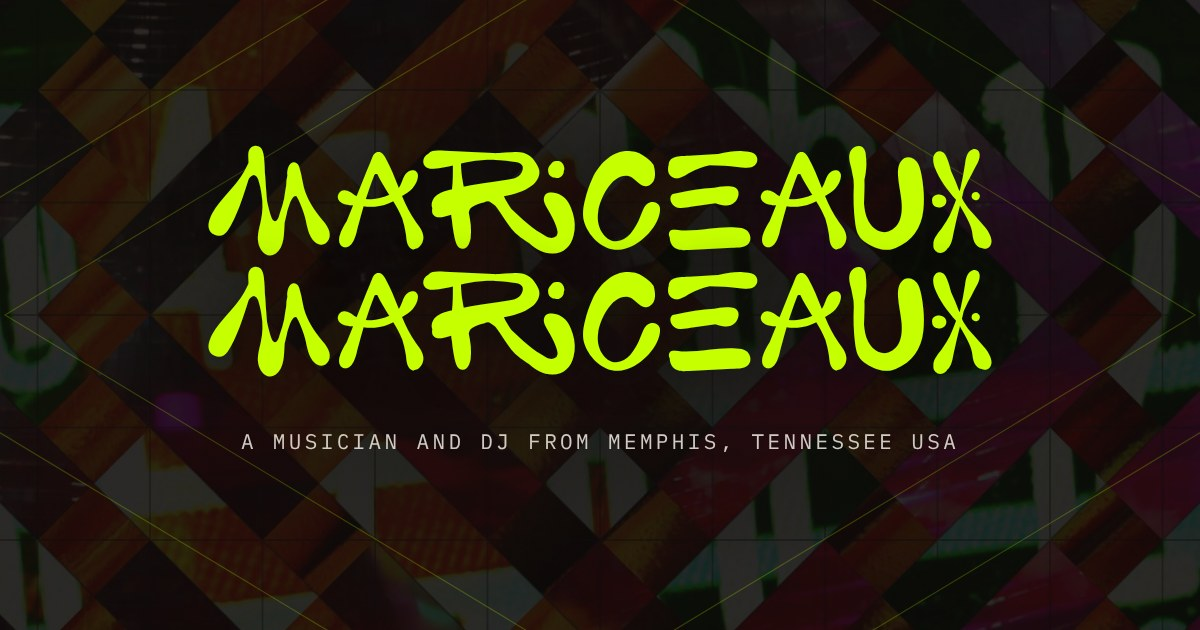
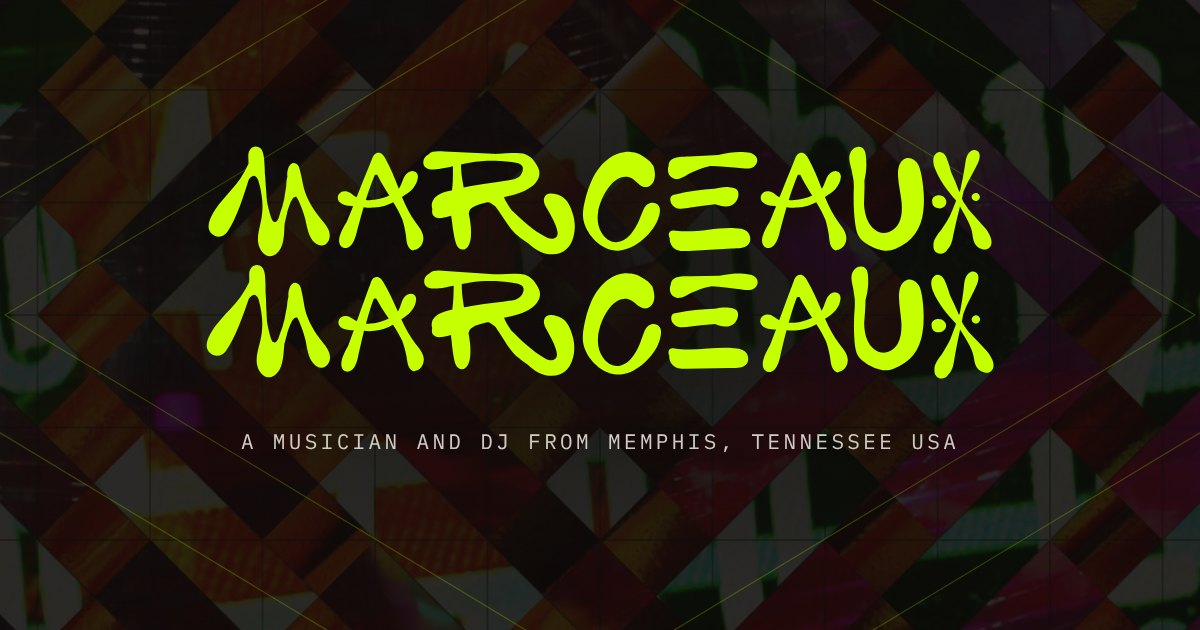
SVG wordmark: drop the dot on the R, vary the second line slightly
Claude-Session: https://claude.ai/code/session_01Y6u3eC9YJ4hNr6J4tV6s9c

diff --git a/public/index.html b/public/index.html
@@ -39,7 +39,7 @@
 	<link rel="preconnect" href="https://fonts.googleapis.com">
 	<link rel="preconnect" href="https://fonts.gstatic.com" crossorigin>
 	<link href="https://fonts.googleapis.com/css2?family=Inter:wght@500;800&family=IBM+Plex+Mono:wght@400;500&display=swap" rel="stylesheet">
-	<link rel="stylesheet" href="assets/style.css?v=c6eab2ed7e">
+	<link rel="stylesheet" href="assets/style.css?v=563aedf874">
 	<style>
 		/* Preloader: inline so it covers the page before anything else paints */
 		#preloader { position: fixed; inset: 0; z-index: 200; background: #110f0d; }
@@ -71,7 +71,7 @@
 	</div>
 
 	<main class="mwg_effect107" id="top">
-		<h1 class="lockup" aria-label="MarceauxMarceaux"><span class="lockup__name" aria-hidden="true">Marceaux<br>Marceaux</span><br><span>A musician and DJ from Memphis, Tennessee USA</span></h1>
+		<h1 class="lockup" aria-label="MarceauxMarceaux"><svg class="lockup__name" viewBox="0 0 5992 1840" aria-hidden="true" focusable="false"><path fill="currentColor" d="M272 184C229 247 174 300 126 360C80 414 -32 566 77 618C88 623 99 625 110 625C136 625 159 611 175 587C242 490 299 310 334 196C342 183 358 164 374 164C390 164 410 194 410 209C420 242 428 276 432 310C444 377 441 444 427 511C416 565 398 618 407 674C415 723 450 774 496 774C510 774 525 769 540 759C607 712 602 605 607 526C613 501 619 475 625 450C632 427 659 310 697 325C702 334 707 343 712 352C732 395 748 438 761 483C778 547 784 627 838 674C852 686 869 693 885 693C907 693 928 681 941 654C967 597 926 543 891 503C830 429 778 352 753 259C743 218 737 176 726 135C721 114 716 81 692 71C686 69 681 67 676 67C637 67 624 133 627 161C627 164 628 166 628 168C622 192 619 217 619 243C613 277 608 310 603 344C599 360 594 376 591 392L575 441C569 456 559 515 534 515C531 515 528 514 524 512C504 502 480 391 474 362C472 338 469 313 468 287C463 240 463 191 457 143C456 114 456 87 453 58C450 15 446 -57 388 -57C372 -57 356 -50 346 -36C322 -5 336 36 333 73C315 111 296 148 272 184ZM1126 394 1077 514C1055 548 1024 605 1020 643C1017 669 1024 698 1051 709C1057 711 1062 712 1067 712C1124 712 1147 622 1156 579C1158 570 1161 562 1163 553L1177 502C1179 493 1182 484 1184 476L1205 402C1233 406 1260 407 1288 405C1338 401 1387 387 1430 364C1457 406 1480 451 1499 496C1511 533 1519 571 1525 610C1531 651 1529 701 1569 726C1582 734 1588 725 1594 725C1595 725 1596 724 1598 724C1637 713 1659 673 1658 634C1656 588 1625 552 1600 518C1556 458 1525 392 1496 324C1556 291 1609 247 1617 174C1618 150 1604 131 1581 129C1563 127 1546 136 1533 147C1506 172 1500 211 1484 242C1480 249 1476 256 1472 263C1440 183 1410 104 1368 30C1357 11 1343 -10 1318 -10C1293 -10 1279 11 1271 32C1266 44 1261 57 1256 69L1225 144C1220 156 1215 168 1210 181L1152 326C1141 320 1129 312 1118 303C1103 292 1087 281 1067 281C1046 279 1027 288 1016 306C1005 324 1008 347 1023 363C1045 387 1094 394 1126 394ZM1288 161 1289 160C1289 159 1295 156 1296 156H1303C1303 156 1306 156 1308 157L1310 158C1334 209 1364 256 1393 304L1400 314C1363 333 1307 346 1266 348C1252 349 1237 348 1222 347C1230 323 1238 299 1246 274C1259 236 1273 198 1288 161ZM1289 159C1291 158 1290 159 1289 160ZM2796 623C2811 568 2807 507 2790 452C2774 400 2750 342 2700 317C2680 308 2652 298 2626 298C2602 298 2581 306 2573 333C2565 359 2580 388 2593 410C2610 439 2627 469 2642 499C2655 529 2672 562 2675 595C2676 608 2672 618 2666 628C2664 628 2664 628 2663 629C2652 638 2641 641 2629 641C2614 641 2600 636 2586 628C2487 577 2406 498 2325 423C2304 392 2284 361 2268 326C2340 311 2419 292 2478 246C2520 214 2553 160 2529 107C2507 57 2470 9 2414 -5C2387 -10 2358 -10 2331 -8C2299 -7 2266 -5 2234 -2C2224 -2 2214 -1 2204 -1C2197 -1 2190 -1 2183 -2L1819 -19C1781 -21 1723 -29 1696 3C1684 10 1673 19 1665 32C1654 52 1654 80 1671 98C1687 114 1711 118 1733 117C1761 117 1789 111 1817 106C1838 101 1860 97 1882 92C1882 152 1883 214 1875 274C1874 274 1874 275 1871 275C1859 278 1846 281 1834 284C1795 295 1756 311 1734 346C1721 366 1717 394 1726 416C1722 437 1723 460 1741 473C1751 482 1764 485 1778 485C1790 485 1803 482 1814 480C1833 478 1851 472 1869 466C1870 478 1871 490 1874 503C1879 547 1893 666 1916 700C1925 714 1940 723 1956 723C1995 723 2011 675 2016 644C2025 580 2015 513 2002 449C2002 449 2002 448 2002 448L2003 444C2007 425 2015 414 2030 405C2057 387 2089 378 2121 370C2129 367 2136 365 2146 364C2154 363 2160 366 2167 370C2181 378 2193 386 2204 397C2216 412 2226 429 2238 444L2273 497C2306 546 2338 595 2387 630C2393 635 2399 639 2405 643L2440 668C2446 672 2452 676 2458 680C2511 726 2564 759 2636 759C2722 759 2776 706 2796 623ZM1958 221C1949 174 1943 126 1943 78C1965 74 1986 68 2007 65C2072 53 2138 49 2202 50C2258 52 2314 57 2369 67C2385 72 2407 81 2411 100C2413 110 2412 123 2408 133C2402 156 2385 172 2363 183C2357 185 2352 189 2345 191C2331 193 2317 196 2305 198C2272 204 2240 208 2207 213C2144 222 2082 231 2019 242C2000 246 1982 249 1964 253C1961 242 1959 232 1958 221ZM3136 731C3259 727 3409 594 3442 473C3449 447 3457 414 3439 390C3425 371 3400 364 3377 371C3352 377 3335 400 3324 423C3311 450 3302 479 3290 506C3258 575 3204 664 3119 667C3071 668 3032 637 3009 598C2981 553 2973 499 2981 445C2992 350 3077 171 3190 171C3208 171 3225 176 3240 185C3260 198 3276 217 3295 231C3309 241 3325 249 3342 249C3377 249 3403 219 3409 186C3417 155 3409 122 3402 92C3401 87 3397 82 3393 80C3391 77 3390 74 3388 72C3376 55 3360 43 3344 31C3327 20 3311 8 3293 -1C3272 -10 3250 -16 3227 -16C3214 -18 3202 -18 3188 -17C3072 -5 2987 88 2939 187C2913 241 2895 298 2881 356C2866 417 2858 479 2882 539C2920 639 3023 736 3136 731ZM3979 -11C3949 -7 3920 0 3891 6L3672 18C3622 21 3516 11 3516 89C3515 92 3514 94 3513 97C3512 100 3512 102 3512 105C3506 137 3518 171 3554 185C3561 188 3568 189 3575 189C3609 189 3647 163 3674 147C3724 121 3773 102 3825 91C3827 91 3830 91 3832 90C3868 92 3903 93 3940 95C3971 97 4004 100 4035 103C4065 105 4099 111 4129 108C4155 105 4178 88 4185 62C4192 36 4180 12 4158 0C4135 -13 4102 -15 4076 -16C4044 -18 4011 -15 3979 -11ZM3600 414C3627 416 3654 409 3680 405L3763 393L3869 379C3894 388 3920 396 3947 396C3974 396 3999 389 4019 368C4043 343 4059 290 4027 265C4011 253 3992 251 3974 250C3950 248 3926 250 3902 254C3889 257 3876 259 3863 262C3764 268 3664 282 3567 305C3552 306 3538 310 3532 325C3523 345 3532 371 3544 386C3558 404 3578 413 3600 414ZM3524 638C3523 675 3544 712 3580 726C3608 738 3638 734 3667 733L3993 715C4038 713 4114 719 4132 662C4140 634 4130 603 4108 584C4084 565 4052 563 4023 562C3954 557 3886 565 3818 572C3749 580 3681 588 3612 584C3596 584 3580 581 3564 580C3551 578 3538 577 3527 586C3512 602 3516 622 3524 638ZM4330 394 4281 514C4259 548 4228 605 4224 643C4221 669 4228 698 4255 709C4261 711 4266 712 4271 712C4328 712 4351 622 4360 579C4362 570 4365 562 4367 553L4381 502C4383 493 4386 484 4388 476L4409 402C4437 406 4464 407 4492 405C4542 401 4591 387 4634 364C4661 406 4684 451 4703 496C4715 533 4723 571 4729 610C4735 651 4733 701 4773 726C4786 734 4792 725 4798 725C4799 725 4800 724 4802 724C4841 713 4863 673 4862 634C4860 588 4829 552 4804 518C4760 458 4729 392 4700 324C4760 291 4813 247 4821 174C4822 150 4808 131 4785 129C4767 127 4750 136 4737 147C4710 172 4704 211 4688 242C4684 249 4680 256 4676 263C4644 183 4614 104 4572 30C4561 11 4547 -10 4522 -10C4497 -10 4483 11 4475 32C4470 44 4465 57 4460 69L4429 144C4424 156 4419 168 4414 181L4356 326C4345 320 4333 312 4322 303C4307 292 4291 281 4271 281C4250 279 4231 288 4220 306C4209 324 4212 347 4227 363C4249 387 4298 394 4330 394ZM4492 161 4493 160C4493 159 4499 156 4500 156H4507C4507 156 4510 156 4512 157L4514 158C4538 209 4568 256 4597 304L4604 314C4567 333 4511 346 4470 348C4456 349 4441 348 4426 347C4434 323 4442 299 4450 274C4463 236 4477 198 4492 161ZM4493 159C4495 158 4494 159 4493 160ZM4929 526C4938 587 4946 628 4998 668C5042 700 5097 726 5152 731C5179 733 5209 729 5236 717C5362 663 5430 568 5445 433C5452 376 5451 317 5445 259C5442 215 5428 123 5409 84C5394 54 5363 30 5331 30C5318 30 5304 35 5291 45C5254 75 5252 129 5254 171C5258 234 5273 296 5280 359C5285 413 5285 475 5258 526C5234 569 5188 602 5137 597C5089 591 5048 553 5027 510C5007 470 4999 425 4996 381C4997 348 4998 316 4999 283C5000 255 5000 228 4999 201C5008 163 5013 124 5014 85C5014 55 5012 26 5008 -3C5003 -27 4991 -50 4967 -54C4946 -58 4924 -50 4910 -36C4892 -20 4884 5 4884 28C4884 58 4894 87 4901 117C4906 145 4912 173 4917 201C4918 215 4918 230 4919 244C4915 338 4917 433 4929 526ZM5782 504C5796 531 5808 558 5814 588C5820 617 5820 649 5834 676C5845 697 5866 715 5888 718C5896 721 5903 723 5911 723C5924 723 5936 718 5945 709C5957 699 5962 683 5962 667C5962 648 5955 628 5946 611C5938 592 5927 577 5915 562C5888 529 5860 500 5832 468C5816 450 5800 432 5783 413C5780 408 5777 403 5774 399L5755 370C5752 365 5749 361 5746 356C5743 349 5741 342 5738 336C5742 318 5747 301 5750 283C5752 277 5754 272 5757 266C5773 229 5792 191 5813 156C5824 136 5834 116 5844 97C5854 78 5864 60 5869 39C5873 23 5875 4 5867 -12C5857 -29 5836 -36 5818 -29C5775 -13 5767 39 5762 79C5753 143 5740 206 5726 269C5724 273 5723 277 5722 281C5721 282 5720 284 5718 286C5699 237 5679 186 5656 137C5647 103 5638 69 5624 36C5617 13 5597 -16 5570 -16C5561 -16 5552 -13 5544 -7C5511 18 5519 69 5531 103C5566 198 5629 277 5694 352C5693 354 5692 356 5691 359L5687 371C5686 374 5685 376 5684 378C5672 408 5660 437 5647 467C5631 497 5613 527 5594 554C5588 563 5583 572 5577 579L5560 600C5555 607 5550 614 5545 622C5531 642 5520 666 5522 691V692C5522 699 5522 706 5523 713C5525 721 5528 729 5534 735C5534 736 5536 738 5537 739C5538 740 5538 740 5539 741C5543 743 5546 746 5550 747C5551 748 5551 748 5551 749C5558 753 5566 755 5575 755C5600 755 5618 739 5631 718C5632 717 5633 716 5635 715C5661 684 5667 642 5674 605C5688 535 5706 466 5723 396C5724 398 5725 400 5727 402L5733 415C5739 421 5776 492 5782 504ZM5860 300C5859 298 5857 298 5855 296C5855 295 5852 295 5851 295C5843 292 5835 294 5828 298C5821 301 5816 308 5813 316C5807 329 5816 346 5830 352C5834 354 5838 355 5842 355C5845 357 5849 355 5852 354C5859 352 5866 346 5869 340C5870 337 5872 334 5873 330C5874 326 5874 323 5873 317C5872 315 5870 311 5869 309C5867 304 5864 302 5860 300ZM5518 386C5527 404 5548 411 5567 411C5585 410 5604 402 5614 385C5624 368 5621 346 5608 332C5597 316 5576 310 5556 312C5536 315 5514 326 5512 350C5511 354 5512 360 5513 366C5513 373 5514 379 5518 386ZM272.7 1082.4C227.1 1145.4 169.5 1197.8 118.9 1257.6C70.4 1311.4 -48.1 1463.2 61.6 1519.3C72.6 1524.7 83.8 1527.1 95 1527.4C121.5 1528.1 145.4 1514.5 162.4 1490.5C233.4 1393.5 296.7 1211.6 335.6 1096.4C344.1 1083.3 361 1064.4 377.3 1064.9C393.6 1065.3 413.2 1096.5 412.7 1111.8C422 1145.7 429.2 1180.6 432.3 1215.4C442.6 1284 437.7 1352.3 421.5 1420.2C408.7 1474.9 388.9 1528.5 396.4 1585.8C403.2 1636 437.4 1689 484.3 1690.3C498.6 1690.7 514 1686 529.6 1676.3C599.3 1630.2 597.2 1521 604.6 1440.6C611.4 1415.3 618.3 1388.9 625.1 1363.6C632.9 1340.4 663.7 1221.8 702.1 1238.2C706.9 1247.5 711.7 1256.9 716.6 1266.2C735.8 1310.6 750.8 1354.9 762.8 1401.1C778.3 1466.9 782.2 1548.6 835.9 1598.1C849.8 1610.7 867 1618.3 883.3 1618.8C905.7 1619.4 927.5 1607.8 941.5 1580.6C969.6 1523.2 929.3 1467 894.8 1425.2C834.7 1348.1 783.9 1268.1 761 1172.5C752 1130.4 747.1 1087.4 737 1045.3C732.5 1023.8 728.4 990 704.2 979.1C698.1 976.9 693.1 974.7 688 974.6C648.2 973.5 633.1 1040.4 635.4 1069C635.3 1072.1 636.2 1074.1 636.2 1076.2C629.4 1100.5 625.6 1125.9 624.9 1152.4C617.8 1186.9 611.7 1220.4 605.7 1254.9C601.1 1271.1 595.6 1287.3 592.1 1303.5L574.4 1353C567.8 1368.1 555.9 1428 530.5 1427.3C527.4 1427.2 524.4 1426.1 520.3 1424C500.2 1413.2 478.9 1299.3 473.6 1269.6C472.3 1245.1 469.9 1219.5 469.7 1193C465.9 1144.9 467.3 1094.9 462.5 1045.8C462.3 1016.2 463.1 988.7 460.9 959C459.1 915.1 457 841.6 397.9 839.9C381.6 839.5 365.1 846.2 354.5 860.2C329.1 891.1 342.2 933.3 338.1 970.9C318.7 1009.1 298.2 1046.3 272.7 1082.4ZM1130.9 1334 1087.5 1453.3C1067.2 1487.4 1039 1544.4 1036.5 1581.8C1034.6 1607.4 1042.5 1635.5 1069.4 1645.2C1075.3 1647 1080.2 1647.8 1085.1 1647.6C1141 1645.4 1160.1 1556.4 1167.3 1514C1168.9 1505.1 1171.5 1497.2 1173.2 1488.3L1185 1437.8C1186.6 1428.9 1189.2 1420 1190.8 1412.1L1208.6 1338.8C1236.2 1341.7 1262.7 1341.6 1290 1338.6C1338.8 1332.8 1386.3 1317.3 1427.5 1293.1C1455.5 1333.3 1479.8 1376.5 1500.1 1419.8C1513.2 1455.6 1522.5 1492.5 1529.8 1530.5C1537.2 1570.4 1537.1 1619.4 1577.3 1642.4C1590.3 1649.8 1595.8 1640.7 1601.7 1640.5C1602.7 1640.5 1603.6 1639.4 1605.6 1639.4C1643.4 1627.1 1663.4 1587.1 1661 1549C1657.3 1504 1625.6 1469.9 1599.8 1437.6C1554.4 1380.5 1521.6 1317 1490.6 1251.5C1548.2 1216.9 1598.4 1171.8 1603.5 1100C1603.6 1076.5 1589.1 1058.4 1566.5 1057.3C1548.8 1056 1532.5 1065.5 1520.2 1076.8C1494.7 1102.3 1490.3 1140.7 1475.8 1171.6C1472.2 1178.6 1468.5 1185.6 1464.8 1192.7C1430.5 1115.5 1398.2 1039.3 1354.2 968.4C1342.8 950.2 1328.3 930.2 1303.8 931.1C1279.3 932 1266.4 953.1 1259.3 974C1254.9 985.9 1250.5 998.9 1246 1010.8L1218.5 1085.4C1214 1097.3 1209.6 1109.3 1205.2 1122.2L1153.8 1266.4C1142.9 1260.9 1130.8 1253.5 1119.7 1245.1C1104.6 1234.9 1088.5 1224.8 1068.9 1225.5C1048.3 1224.3 1030 1233.9 1019.9 1251.9C1009.8 1270 1013.6 1292.4 1028.9 1307.5C1051.4 1330.1 1099.6 1335.2 1130.9 1334ZM1280.8 1099.7 1281.8 1098.7C1281.7 1097.7 1287.5 1094.5 1288.5 1094.5L1295.3 1094.2C1295.3 1094.2 1298.3 1094.1 1300.3 1095L1302.3 1095.9C1327.7 1145 1358.8 1189.9 1389 1235.8L1396.3 1245.3C1360.7 1265.3 1306.4 1280.1 1266.3 1283.6C1252.6 1285.1 1237.9 1284.7 1223.2 1284.3C1230.1 1260.5 1237.1 1236.7 1243.9 1211.9C1255.2 1174.2 1267.5 1136.5 1280.8 1099.7ZM1281.7 1097.7C1283.6 1096.6 1282.7 1097.7 1281.8 1098.7ZM2790.4 1546.8C2806.5 1492.1 2803.8 1431 2788 1375.7C2773 1323.4 2750.3 1264.9 2700.8 1238.8C2681 1229.4 2653.2 1218.8 2627.2 1218.3C2603.2 1217.8 2582.1 1225.3 2573.5 1252.2C2564.9 1278 2579.3 1307.3 2591.9 1329.6C2608.3 1358.9 2624.6 1389.3 2639 1419.6C2651.4 1449.8 2667.7 1483.2 2670 1516.2C2670.7 1529.3 2666.5 1539.2 2660.3 1549C2658.3 1549 2658.3 1549 2657.3 1550C2646.1 1558.7 2635 1561.5 2623 1561.3C2608 1560.9 2594.1 1555.7 2580.3 1547.4C2482.4 1494.3 2403.1 1413.6 2323.7 1336.9C2303.3 1305.5 2284 1274.1 2268.7 1238.8C2341 1225.3 2420.4 1207.9 2480.3 1163.2C2523 1132.1 2557.1 1078.8 2534.2 1025.3C2513.3 974.8 2477.3 926.1 2421.6 910.9C2394.7 905.3 2365.7 904.7 2338.7 906.2C2306.7 906.5 2273.6 907.8 2241.6 910.1C2231.6 909.9 2221.6 910.7 2211.6 910.5C2204.6 910.4 2197.6 910.2 2190.6 909.1L1827 884.4C1789.1 881.6 1731.3 872.4 1703.6 903.9C1691.4 910.6 1680.3 919.4 1672 932.2C1660.6 952 1660 980 1676.6 998.3C1692.3 1014.7 1716.2 1019.2 1738.2 1018.6C1766.2 1019.2 1794.3 1013.8 1822.4 1009.4C1843.5 1004.8 1865.6 1001.3 1887.7 996.7C1886.4 1056.7 1886.1 1118.7 1876.9 1178.6C1875.9 1178.5 1875.9 1179.5 1872.9 1179.5C1860.8 1182.2 1847.7 1184.9 1835.7 1187.7C1796.5 1197.9 1757.1 1213.1 1734.4 1247.6C1721 1267.3 1716.4 1295.2 1724.9 1317.4C1720.5 1338.3 1721 1361.3 1738.7 1374.7C1748.6 1383.9 1761.5 1387.2 1775.5 1387.5C1787.5 1387.7 1800.5 1385 1811.6 1383.2C1830.6 1381.6 1848.7 1376 1866.9 1370.4C1867.6 1382.4 1868.4 1394.4 1871.1 1407.5C1875.2 1451.6 1886.7 1570.8 1908.9 1605.3C1917.7 1619.5 1932.5 1628.8 1948.5 1629.2C1987.4 1630 2004.5 1582.3 2010.1 1551.4C2020.4 1487.6 2011.8 1420.4 2000.2 1356.2C2000.2 1356.2 2000.2 1355.2 2000.2 1355.2L2001.3 1351.2C2005.7 1332.3 2013.9 1321.5 2029.1 1312.8C2056.5 1295.3 2088.7 1287 2120.8 1279.7C2128.9 1276.9 2135.9 1275 2145.9 1274.2C2154 1273.4 2159.9 1276.5 2166.8 1280.6C2180.6 1288.9 2192.5 1297.2 2203.2 1308.4C2214.9 1323.7 2224.6 1340.9 2236.2 1356.1L2270.1 1409.8C2302.1 1459.5 2333.1 1509.2 2381.3 1545.2C2387.2 1550.3 2393.1 1554.4 2399 1558.6L2433.5 1584.3C2439.4 1588.4 2445.3 1592.5 2451.2 1596.7C2503.3 1643.8 2555.6 1677.9 2627.6 1679.4C2713.5 1681.2 2768.6 1629.3 2790.4 1546.8ZM1961 1127.3C1953 1080.1 1948 1032 1949 984C1971 980.5 1992.2 974.9 2013.2 972.4C2078.5 961.7 2144.5 959.1 2208.5 961.5C2264.4 964.6 2320.3 970.8 2375.1 981.9C2391 987.3 2412.8 996.7 2416.4 1015.8C2418.2 1025.9 2416.9 1038.8 2412.7 1048.7C2406.2 1071.6 2388.9 1087.3 2366.7 1097.8C2360.6 1099.7 2355.6 1103.6 2348.5 1105.4C2334.5 1107.1 2320.4 1109.8 2308.4 1111.6C2275.3 1116.9 2243.2 1120.2 2210.1 1124.5C2146.9 1132.2 2084.7 1139.9 2021.5 1149.6C2002.4 1153.2 1984.4 1155.8 1966.3 1159.4C1963.5 1148.4 1961.7 1138.3 1961 1127.3ZM3152.7 1669C3277.9 1659.3 3424.6 1516.8 3452.6 1392C3458.5 1365.2 3465.2 1331.2 3445.7 1307.6C3430.6 1288.9 3404.8 1282.9 3381.7 1291.1C3356.5 1298.3 3340.2 1322.6 3330.1 1346.5C3318.1 1374.6 3310.2 1404.6 3299.3 1432.7C3269.8 1504.4 3218.9 1597.6 3132.5 1604.6C3083.6 1607.9 3042.4 1578.1 3017.2 1539.4C2986.6 1494.8 2975.9 1440.2 2981.6 1384.8C2988.4 1287.5 3066.7 1101.2 3181.9 1095.9C3200.2 1095.1 3217.8 1099.4 3233.5 1107.9C3254.4 1120.2 3271.6 1138.8 3291.6 1152.2C3306.4 1161.8 3323 1169.2 3340.4 1168.4C3376 1166.8 3401.1 1135 3405.7 1101.1C3412.4 1069.1 3402.7 1035.9 3394.2 1005.6C3393 1000.6 3388.7 995.7 3384.5 993.8C3382.3 990.9 3381.2 987.8 3379 985.9C3366 969.1 3349.2 957.6 3332.3 946.2C3314.5 935.7 3297.6 924.3 3278.9 915.9C3257 907.7 3234.3 902.6 3210.9 903.7C3197.6 902.2 3185.3 902.8 3171.1 904.5C3053.5 922.1 2971.2 1020.8 2926.8 1123.9C2902.9 1180.1 2887.1 1239 2875.6 1298.7C2863.1 1361.6 2857.8 1425.1 2885.1 1485.2C2928.4 1585.3 3037.8 1679.4 3152.7 1669ZM3988.7 907.7C3959.1 910.6 3930.5 916.4 3901.9 921.3L3687 925.6C3637.9 926.8 3534.4 913.4 3531.8 989.8C3530.7 992.7 3529.6 994.6 3528.6 997.5C3527.5 1000.4 3527.4 1002.4 3527.3 1005.3C3520.3 1036.5 3530.9 1070.2 3565.7 1085.1C3572.5 1088.3 3579.3 1089.5 3586.1 1089.7C3619.4 1090.9 3657.5 1066.7 3684.5 1052C3734.4 1028.2 3783 1011.3 3834.3 1002.3C3836.3 1002.4 3839.2 1002.5 3841.2 1001.6C3876.4 1004.8 3910.7 1006.9 3946.8 1010.2C3977.1 1013.2 4009.3 1017.3 4039.6 1021.3C4068.9 1024.2 4102 1031.3 4131.5 1029.4C4157.1 1027.3 4180.2 1011.5 4187.9 986.2C4195.7 961 4184.7 937.1 4163.6 924.6C4141.5 911.1 4109.3 908 4083.8 906.1C4052.6 903.1 4020.1 904.9 3988.7 907.7ZM3602.9 1311C3629.3 1313.9 3656 1307.9 3681.6 1304.9L3763.3 1296L3867.6 1285.9C3891.8 1295.6 3916.9 1304.3 3943.4 1305.2C3969.8 1306.1 3994.6 1300.1 4014.9 1280.2C4039.2 1256.6 4056.7 1205.2 4026.2 1179.6C4011 1167.3 3992.4 1164.7 3974.8 1163.1C3951.4 1160.4 3927.8 1161.5 3904.2 1164.6C3891.3 1167.1 3878.5 1168.6 3865.7 1171.1C3768.5 1173.6 3670.1 1183.9 3574.3 1203.1C3559.6 1203.6 3545.8 1207 3539.4 1221.5C3529.9 1240.8 3537.8 1266.5 3549 1281.6C3562.1 1299.7 3581.4 1309.2 3602.9 1311ZM3520.8 1527.8C3518.6 1564 3537.9 1600.9 3572.7 1615.9C3599.7 1628.6 3629.2 1625.7 3657.6 1625.7L3977.5 1619.2C4021.7 1618.8 4095.9 1627.3 4115.5 1572.1C4124.3 1544.9 4115.5 1514.2 4094.6 1494.8C4071.8 1475.4 4040.5 1472.4 4012.1 1470.4C3944.7 1463.1 3877.9 1468.6 3811 1473.2C3743.2 1478.6 3676.3 1484.2 3608.9 1477.9C3593.2 1477.3 3577.6 1473.8 3562 1472.3C3549.3 1469.9 3536.6 1468.5 3525.5 1476.9C3510.3 1492.1 3513.5 1511.8 3520.8 1527.8ZM4329.1 1327.6 4283.1 1450.2C4261.8 1485.1 4232.1 1543.5 4229.2 1582C4226.9 1608.4 4234.7 1637.4 4262.3 1647.8C4268.4 1649.6 4273.5 1650.5 4278.5 1650.4C4336.1 1648.8 4356.8 1557.2 4364.7 1513.6C4366.4 1504.4 4369.2 1496.3 4371 1487.1L4383.7 1435.2C4385.4 1426.1 4388.2 1416.9 4390 1408.8L4409.1 1333.5C4437.5 1336.7 4464.8 1337 4493 1334.2C4543.4 1328.7 4592.5 1313.2 4635.2 1288.8C4663.7 1330.4 4688.2 1375.2 4708.6 1420.1C4721.8 1457.1 4730.9 1495.3 4738.1 1534.5C4745.3 1575.7 4744.7 1626.2 4785.8 1650.3C4799.1 1658 4804.9 1648.8 4811 1648.6C4812 1648.6 4813 1647.6 4815 1647.5C4854.1 1635.3 4875.1 1594.3 4873 1554.9C4869.7 1508.6 4837.4 1473.1 4811.2 1439.5C4765.1 1380.1 4731.9 1314.4 4700.7 1246.5C4760.4 1211.5 4812.6 1165.6 4818.7 1091.7C4819 1067.4 4804.3 1048.6 4781 1047.3C4762.8 1045.8 4745.9 1055.3 4733.1 1066.8C4706.5 1092.8 4701.6 1132.3 4686.3 1164.1C4682.5 1171.3 4678.6 1178.4 4674.8 1185.6C4640.2 1105.8 4607.7 1026.8 4563.2 953.3C4551.6 934.4 4536.8 913.6 4511.6 914.3C4486.4 915.1 4472.8 936.6 4465.3 958.1C4460.6 970.3 4455.9 983.6 4451.2 995.9L4422 1072.4C4417.3 1084.7 4412.6 1097 4407.9 1110.2L4353.5 1258.3C4342.2 1252.5 4329.9 1244.8 4318.5 1236C4303.1 1225.3 4286.6 1214.7 4266.4 1215.2C4245.1 1213.8 4226.2 1223.4 4215.6 1241.9C4205 1260.4 4208.7 1283.5 4224.3 1299.2C4247.2 1322.9 4296.8 1328.5 4329.1 1327.6ZM4486.1 1087.8 4487.1 1086.8C4487.1 1085.8 4493.1 1082.6 4494.1 1082.6L4501.1 1082.4C4501.1 1082.4 4504.2 1082.3 4506.2 1083.2L4508.3 1084.2C4533.9 1135 4565.5 1181.6 4596.2 1229.2L4603.5 1239.1C4566.7 1259.4 4510.5 1274.1 4469.2 1277.3C4455.1 1278.7 4439.9 1278.1 4424.7 1277.5C4432.1 1253 4439.5 1228.6 4446.9 1203.1C4459 1164.4 4472 1125.6 4486.1 1087.8ZM4487.1 1085.8C4489.1 1084.7 4488.1 1085.8 4487.1 1086.8ZM4924.7 1424.3C4931.1 1485 4937.3 1525.9 4987.1 1567.6C5029.3 1601.1 5082.6 1629.1 5136.8 1636.3C5163.4 1639.4 5193.3 1636.7 5220.5 1626C5347.3 1577.8 5418.5 1486.6 5439 1353.7C5448.2 1297.6 5449.7 1239.2 5446.2 1181.6C5445 1138 5435 1046.4 5417.8 1007C5404.2 976.7 5374.6 951.7 5342.9 950.4C5330 949.8 5316 954.2 5302.7 963.5C5264.9 991.7 5260.7 1045 5260.9 1086.6C5262.2 1149.1 5274.5 1211.1 5278.8 1273.7C5281.5 1327.3 5279 1388.6 5250.1 1437.9C5224.6 1479.5 5177.7 1510.2 5127.5 1503.2C5080.3 1495.2 5041.3 1455.9 5022.3 1412.5C5004.2 1372.2 4998.1 1327.3 4997 1283.7C4999.4 1251.1 5001.7 1219.5 5004 1186.9C5006.2 1159.2 5007.3 1132.5 5007.4 1105.7C5017.9 1068.5 5024.5 1030.2 5027.1 991.6C5028.3 962 5027.5 933.2 5024.8 904.3C5020.8 880.4 5009.9 857.1 4986.3 852.2C4965.7 847.4 4943.6 854.4 4929.2 867.6C4910.7 882.7 4901.8 907.1 4900.8 929.9C4899.6 959.5 4908.3 988.6 4914 1018.6C4917.8 1046.5 4922.5 1074.4 4926.3 1102.3C4926.7 1116.2 4926.1 1131.1 4926.5 1145C4918.7 1237.8 4916.7 1331.8 4924.7 1424.3ZM5788 1437.2C5803.2 1464.2 5816.4 1491.3 5823.6 1521.7C5830.8 1551 5831.9 1583.6 5847.1 1610.7C5859.1 1631.7 5881.1 1649.3 5903.7 1651.5C5911.9 1654.3 5919.1 1656.1 5927.3 1655.8C5940.6 1655.4 5952.6 1649.8 5961.5 1640.3C5973.3 1629.7 5977.9 1613.2 5977.3 1596.9C5976.6 1577.6 5968.8 1557.4 5959 1540.4C5950.2 1521.3 5938.4 1506.4 5925.6 1491.6C5897 1458.9 5867.4 1430.3 5837.7 1398.7C5820.7 1380.9 5803.8 1363.1 5785.8 1344.4C5782.6 1339.4 5779.3 1334.4 5776.1 1330.4L5755.7 1301.5C5752.5 1296.5 5749.3 1292.6 5746 1287.6C5742.7 1280.6 5740.4 1273.5 5737.2 1267.5C5740.6 1249 5745.1 1231.5 5747.5 1213C5749.3 1206.8 5751.2 1201.7 5754.1 1195.4C5769 1157.2 5787.1 1117.7 5807.2 1081.3C5817.7 1060.5 5827.2 1039.8 5836.7 1020.1C5846.2 1000.4 5855.8 981.6 5860.1 960.1C5863.6 943.6 5865 924.2 5856.3 908.1C5845.5 891.2 5823.8 884.8 5805.7 892.6C5762.5 910.4 5756.2 963.7 5752.5 1004.6C5745.6 1070.2 5734.6 1134.9 5722.6 1199.6C5720.7 1203.8 5719.8 1207.9 5718.9 1212C5717.9 1213 5717 1215.1 5715 1217.2C5693.9 1168 5671.7 1116.7 5646.5 1067.5C5636.1 1033.2 5625.7 998.9 5610.3 965.7C5602.3 942.5 5580.9 913.7 5553.4 914.6C5544.2 915 5535.1 918.3 5527.2 924.7C5494.5 951.4 5504.4 1003.1 5517.9 1037.3C5556.9 1132.9 5624 1211.2 5692.9 1285.4C5691.9 1287.4 5691 1289.5 5690.1 1292.6L5686.4 1305C5685.5 1308.1 5684.6 1310.1 5683.6 1312.2C5672.5 1343.2 5661.3 1373.2 5649.1 1404.3C5633.8 1435.4 5616.6 1466.6 5598.1 1494.8C5592.3 1504.2 5587.6 1513.6 5581.7 1520.9L5565.1 1542.9C5560.3 1550.2 5555.4 1557.6 5550.6 1565.9C5537.1 1586.8 5526.7 1611.6 5529.6 1637L5529.7 1638.1C5529.9 1645.2 5530.2 1652.3 5531.4 1659.4C5533.8 1667.5 5537.1 1675.6 5543.4 1681.5C5543.5 1682.5 5545.6 1684.5 5546.6 1685.4C5547.7 1686.4 5547.7 1686.4 5548.7 1687.4C5552.9 1689.3 5556 1692.3 5560.2 1693.1C5561.2 1694.1 5561.2 1694.1 5561.3 1695.1C5568.5 1699 5576.8 1700.7 5585.9 1700.4C5611.4 1699.5 5629.2 1682.6 5641.7 1660.7C5642.7 1659.6 5643.7 1658.6 5645.7 1657.5C5671.1 1625 5675.7 1581.9 5681.5 1544C5693.3 1472.1 5709.2 1401.1 5724 1329.2C5725.1 1331.2 5726.2 1333.2 5728.3 1335.2L5734.9 1348.2C5741.2 1354.1 5781.5 1425.2 5788 1437.2ZM5860.3 1226.4C5859.2 1224.4 5857.1 1224.5 5855 1222.5C5855 1221.5 5851.9 1221.6 5850.9 1221.7C5842.6 1218.9 5834.6 1221.2 5827.6 1225.5C5820.5 1228.8 5815.7 1236.2 5812.9 1244.4C5807.3 1257.9 5817 1274.9 5831.5 1280.5C5835.7 1282.4 5839.8 1283.3 5843.9 1283.1C5847 1285.1 5851 1282.9 5854 1281.8C5861.1 1279.5 5868 1273.1 5870.9 1266.9C5871.8 1263.8 5873.7 1260.7 5874.6 1256.6C5875.5 1252.4 5875.3 1249.4 5874.1 1243.3C5873 1241.3 5870.8 1237.3 5869.8 1235.3C5867.5 1230.3 5864.4 1228.3 5860.3 1226.4ZM5514.7 1326.3C5524.5 1344.3 5546.2 1350.7 5565.5 1350C5583.8 1348.4 5602.9 1339.5 5612.5 1321.8C5622.1 1304.2 5618.3 1281.8 5604.5 1268C5592.7 1252.1 5571.1 1246.7 5550.8 1249.5C5530.5 1253.3 5508.5 1265.3 5507.3 1289.8C5506.4 1293.9 5507.6 1300 5508.9 1306.1C5509.1 1313.2 5510.4 1319.3 5514.7 1326.3Z"/></svg><span>A musician and DJ from Memphis, Tennessee USA</span></h1>
 		<p class="hint" aria-hidden="true">drag or scroll</p>
 		<div class="sphere-container">
 			<ul class="sphere" id="cards" aria-label="Videos"></ul>

diff --git a/public/assets/style.css b/public/assets/style.css
@@ -82,7 +82,15 @@ html, body { overscroll-behavior: none; overflow: hidden; }
     /* sits on top of the front video: keep it legible over any frame */
     text-shadow: 0 0 .35em rgba(17, 15, 13, .55), 0 .04em .9em rgba(17, 15, 13, .45);
 }
-.lockup__name { color: var(--lime); }
+.lockup__name {
+    display: block;
+    width: 5.992em; height: 1.84em;   /* the wordmark's outlines at the old type size and .92 line height */
+    margin: 0 auto;
+    overflow: visible;
+    color: var(--lime);
+    /* SVG ignores text-shadow: same legibility halo as a filter */
+    filter: drop-shadow(0 0 .3em rgba(17, 15, 13, .5)) drop-shadow(0 .04em .6em rgba(17, 15, 13, .4));
+}
 .lockup span:not(.lockup__name) {
     display: inline-block;
     margin-top: 1.1em;

diff --git a/tools/make_logo.py b/tools/make_logo.py
@@ -1,0 +1,63 @@
+"""Build the MarceauxMarceaux wordmark as SVG outlines from AT Crows.
+Uses the font's kerning (HarfBuzz) and drops the dot contour on the 'r'.
+Writes public/assets/logo.svg (standalone, lime) and prints the inline path data."""
+import io, sys
+import uharfbuzz as hb
+from fontTools.ttLib import TTFont
+from fontTools.pens.svgPathPen import SVGPathPen
+from fontTools.pens.recordingPen import DecomposingRecordingPen
+from fontTools.pens.transformPen import TransformPen
+
+FONT = 'public/assets/fonts/AT-Crows-Regular.woff2'
+WORD, LINE = 'Marceaux', 920          # line-height .92em, 1000 units per em
+f = TTFont(FONT); f.flavor = None; buf = io.BytesIO(); f.save(buf)
+gs, order = f.getGlyphSet(), f.getGlyphOrder()
+font = hb.Font(hb.Face(buf.getvalue()))
+
+def contours(name):
+    p = DecomposingRecordingPen(gs); gs[name].draw(p)
+    out, cur = [], []
+    for op, a in p.value:
+        cur.append((op, a))
+        if op in ('closePath', 'endPath'): out.append(cur); cur = []
+    return out
+
+def is_r_dot(c):                       # the small detached blob, upper right of the r
+    xs = [pt[0] for op, a in c for pt in a]; ys = [pt[1] for op, a in c for pt in a]
+    return min(xs) > 900 and min(ys) > 450 and max(xs) - min(xs) < 200
+
+b = hb.Buffer(); b.add_str(WORD); b.guess_segment_properties(); hb.shape(font, b)
+width = sum(p.x_advance for p in b.glyph_positions)
+# Second line: same letters, each nudged a touch (rotate degrees, lift in font units, scale)
+# so the two lines read as hand-drawn twins rather than a copy-paste.
+JITTER = [(-1.6, 12, 1.02), (2.2, -14, .98), (-1.2, 8, 1.0), (2.6, -10, 1.02),
+          (-2.0, 14, .98), (1.6, -8, 1.01), (-2.4, 10, .99), (2.0, -12, 1.02)]
+import math
+def nudge(i, line, x, base, name, adv):
+    if line == 0: return (1, 0, 0, -1, x, base)
+    deg, lift, s = JITTER[i]
+    a = math.radians(deg); c, sn = math.cos(a) * s, math.sin(a) * s
+    cx, cy = adv / 2, 350                      # pivot: glyph centre, mid x-height
+    # font->svg: translate(x, base) * flipY * T(cx,cy) * R * S * T(-cx,-cy), then lift
+    xx, xy, yx, yy = c, sn, -sn, c             # rotation+scale in font space
+    dx = cx - (xx * cx + yx * cy); dy = cy - (xy * cx + yy * cy) + lift
+    return (xx, -xy, yx, -yy, x + dx, base - dy)
+pen = SVGPathPen(gs, ntos=lambda v: ('%g' % round(v, 1)))
+for line in range(2):
+    base = LINE * line + (LINE - 1000) / 2 + 750      # baseline as CSS places it
+    x = 0
+    for i, (info, pos) in enumerate(zip(b.glyph_infos, b.glyph_positions)):
+        name = order[info.codepoint]
+        tp = TransformPen(pen, nudge(i, line, x + pos.x_offset, base - pos.y_offset, name, pos.x_advance))
+        for c in contours(name):
+            if name == 'r' and is_r_dot(c): continue
+            for op, a in c: getattr(tp, op)(*a)
+        x += pos.x_advance
+d = pen.getCommands()
+H = LINE * 2
+open('public/assets/logo.svg', 'w').write(
+    f'<svg xmlns="http://www.w3.org/2000/svg" viewBox="-40 -60 {width+80} {H+120}" fill="#c6ff00">'
+    f'<title>MarceauxMarceaux</title><path d="{d}"/></svg>\n')
+open('tools/logo/inline.txt', 'w').write(
+    f'<svg class="lockup__name" viewBox="0 0 {width} {H}" aria-hidden="true" focusable="false"><path fill="currentColor" d="{d}"/></svg>')
+print(width, H, len(d))
